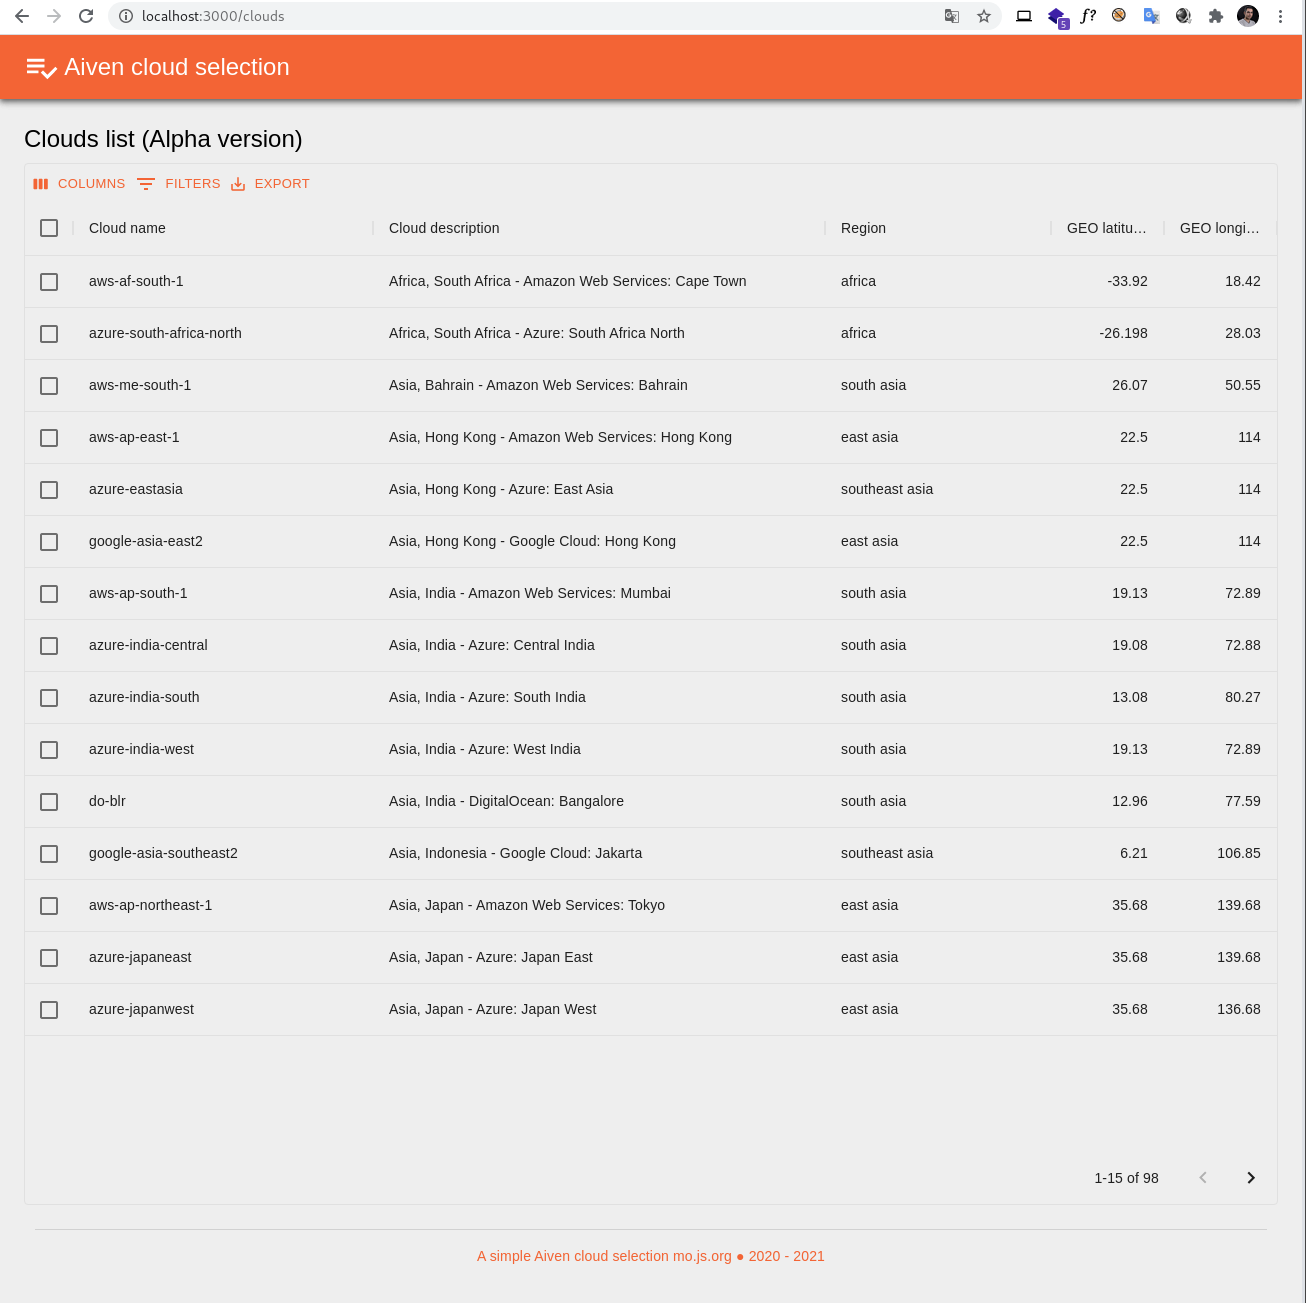
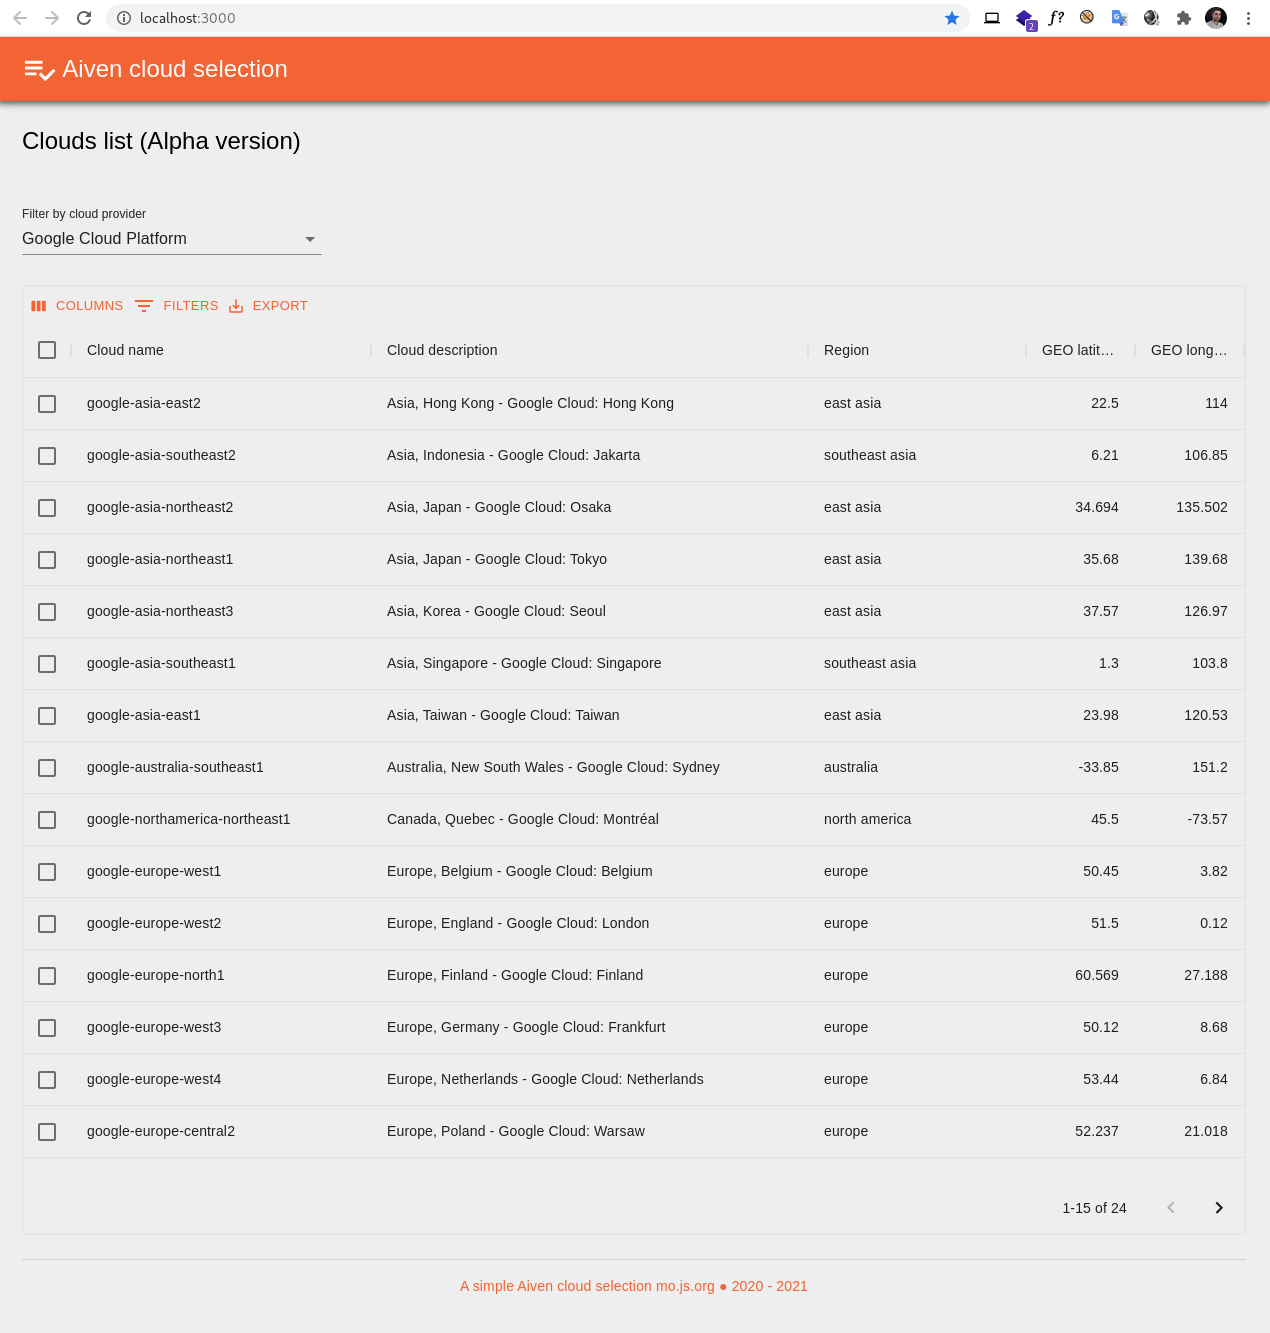
Change size of the table

diff --git a/src/layouts/default/index.tsx b/src/layouts/default/index.tsx
@@ -23,7 +23,7 @@ const DefaultLayout: React.FC = ({children}): JSX.Element => {
             <AppBar position="static">
                 <Header/>
             </AppBar>
-            <Box m={3} minHeight="80vh">
+            <Box m={3} minHeight="82vh">
                 {children}
             </Box>
             <Footer/>

diff --git a/src/components/clouds-data-grid/index.tsx b/src/components/clouds-data-grid/index.tsx
@@ -5,7 +5,7 @@ import {Cloud} from "../../types/cloud";
 
 const useStyles = makeStyles((theme) => ({
   table: {
-    height: '80vw',
+    height: 950,
     width: '100%',
   },
 }));
